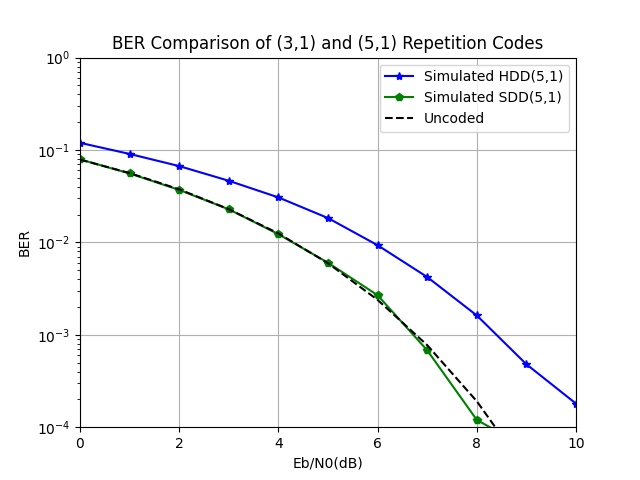
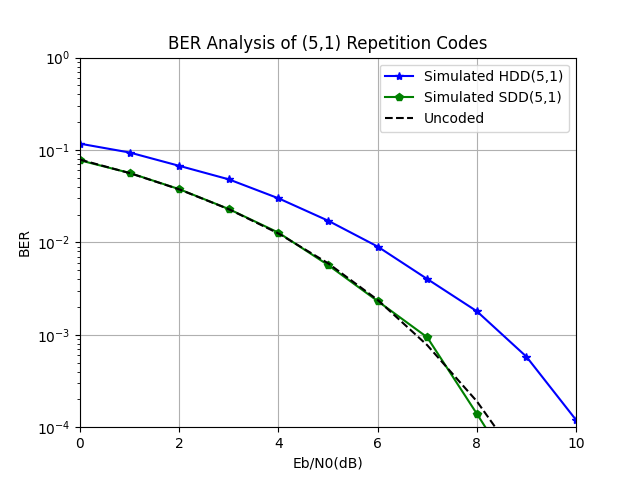
modified

diff --git a/rep_51.py b/rep_51.py
@@ -57,7 +57,7 @@ plt.figure(1)
 plt.semilogy(EbN0dB, BER_sim, 'b*-', label="Simulated HDD(5,1)")
 plt.semilogy(EbN0dB, BER_sim_SDD, 'gp-', label="Simulated SDD(5,1)")
 plt.semilogy(EbN0dB, BER_UC, 'k--', label="Uncoded")
-plt.title("BER Comparison of (3,1) and (5,1) Repetition Codes")
+plt.title("BER Analysis of (5,1) Repetition Codes")
 plt.xlabel('Eb/N0(dB)')
 plt.ylabel('BER')
 plt.grid(True)
